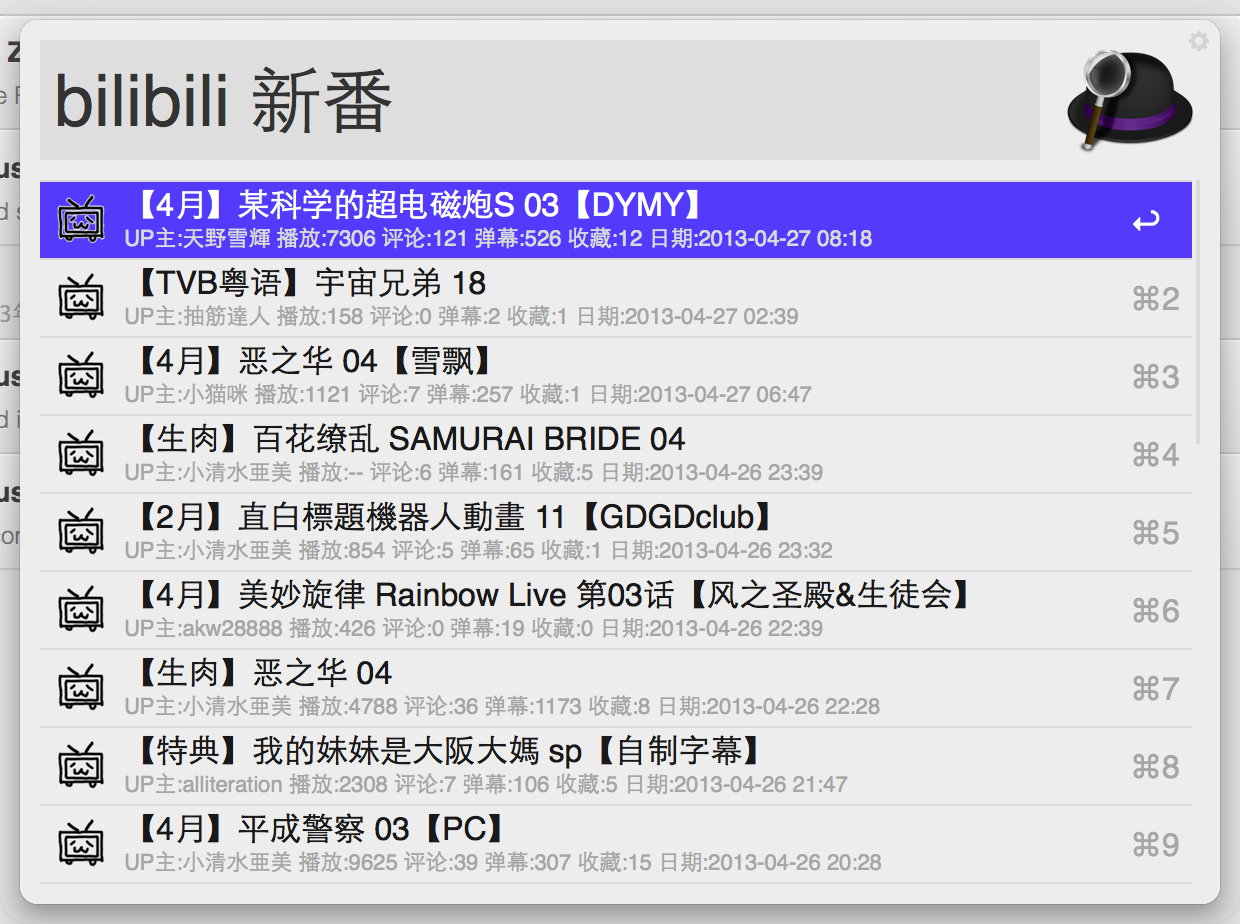
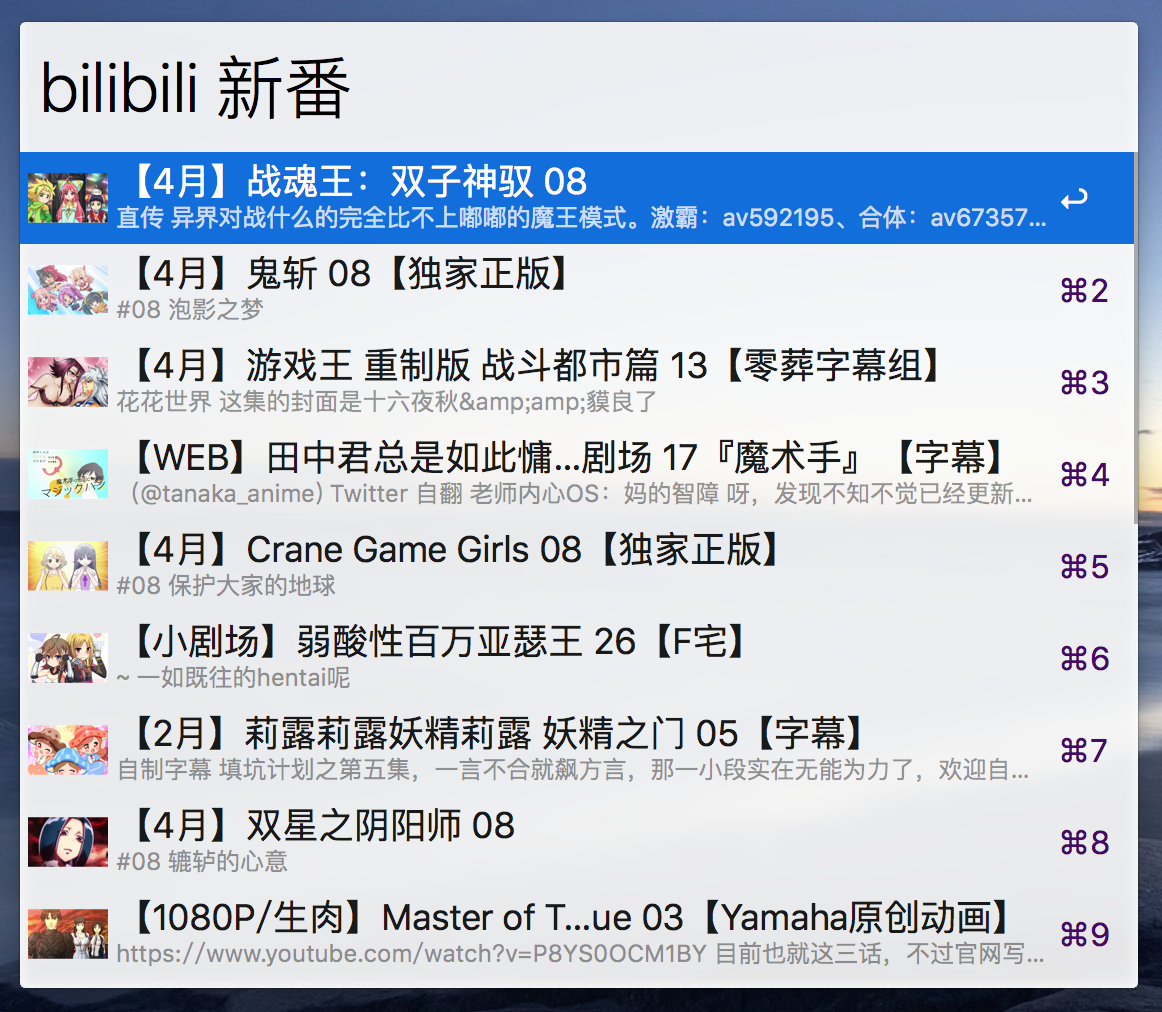
插件更新支持最新Bilibili
* 修改页面分析结构,修正链接
* 新增图片的解析裁剪
* README 更新

diff --git a/src/search.php b/src/search.php
@@ -1,6 +1,7 @@
 <?
 require_once('phpQuery.php');
 require_once('workflows.php');
+require_once('image.php');
 
 $channels = array(
     'MAD' => 'douga-mad-1.html',
@@ -32,36 +33,35 @@ $channels = array(
     '新番三次元' => 'bangumi-three-1.html'
 );
 
+$thumbnail_dir = '/tmp/alfred-workflow-bilibili';
+
 function search_channel($channel) {
     $wf = new Workflows();
-    $url = 'http://www.bilibili.tv/video/'.$channel;
+    $url = 'http://www.bilibili.com/video/'.$channel;
     $content = $wf->request($url, array(CURLOPT_ENCODING => 1));
     $doc = phpQuery::newDocumentHTML($content);
-    $list = $doc->find('li.l1');
+    $list = $doc->find('div.l-item');
+
+    initDir();
 
     $i = 0;
     foreach ($list as $item) {
         $item = pq($item);
-        $link = $item->children('a.title')->attr('href');
+        $link = $item->children('a:first')->attr('href');
         if (strpos($link, 'http') !== 0) {
-            $link = 'http://www.bilibili.tv'.$link;
+            $link = 'http://www.bilibili.com'.$link;
         }
-        $title = $item->children('a.title')->text();
-        $author = $item->find('a.up')->text();
-        $view = $item->find('a.gk > b')->text();
-        $comment = $item->find('a.pl > b')->text();
-        $bullet = $item->find('a.dm > b')->text();
-        $save = $item->find('a.sc > b')->text();
-        $date = preg_split('/UP:/', $item->find('div.date')->text());
-        $date = $date[1];
-        $subtitle = 'UP主:'.$author.' 播放:'.$view.' 评论:'.$comment.' 弹幕:'.$bullet.' 收藏:'.$save.' 日期:'.$date;
+        $title = $item->find('a.title')->attr('title');
+        $subtitle = $item->find('div.v-desc')->text();
+        $img = $item->find('a:first img')->attr("data-img");
 
         $wf->result(
             $i,
             $link,
-            $title,
-            $subtitle,
-            'icon.png',
+            trim($title),
+            trim($subtitle),
+            /*'icon.png',*/
+            saveAndReturnImg($img),
             'yes'        
         );
         $i++;
@@ -72,38 +72,58 @@ function search_channel($channel) {
 
 function search_query($kw) {
     $wf = new Workflows();
-    $url = 'http://www.bilibili.tv/search?keyword='.urlencode($kw).'&orderby=&formsubmit=';
+    $url = 'http://search.bilibili.com/all?keyword='.urlencode($kw);
     $content = $wf->request($url, array(CURLOPT_ENCODING => 1));
     $doc = phpQuery::newDocumentHTML($content);
-    $list = $doc->find('li.l');
+
+    initDir();
 
     $i = 0;
-    foreach ($list as $item) {
-        $link = pq($item)->children('a:first')->attr('href');
-        if (strpos($link, 'http') !== 0) {
-            $link = 'http://www.bilibili.tv'.$link;
-        }
-        $info = pq($item)->find('div.info > i');
-        $author = pq($item)->find('a.upper:first')->text();
-        $view = $info->eq(0)->text();
-        $comment = $info->eq(1)->text();
-        $bullet = $info->eq(2)->text();
-        $save = $info->eq(3)->text();
-        $date = $info->eq(4)->text();
-        $subtitle = 'UP主:'.$author.' 播放:'.$view.' 评论:'.$comment.' 弹幕:'.$bullet.' 收藏:'.$save.' 日期:'.$date;
+    $syntheticalList = $doc->find('li.synthetical');
+    foreach ($syntheticalList as $item) {
+        $item = pq($item);
+        $link = $item->find('a:first')->attr('href');
+        $img = $item->find('a:first img')->attr('src');
+
         $wf->result(
             $i,
             $link,
-            pq($item)->find('div.t:first')->text(),
+            trim($item->find('a.title')->attr('title')),
+            trim($item->find('div.des')->text()),
+            saveAndReturnImg($img),
+            'yes'
+        );
+        $i++;
+    }
+
+    $list = $doc->find('li.video');
+    foreach ($list as $item) {
+        $item = pq($item);
+        $link = $item->children('a:first')->attr('href');
+        if (strpos($link, 'http') !== 0) {
+            $link = 'http://www.bilibili.com'.$link;
+        }
+        $tags = $item->find('div.tags')->eq(0);
+        $view = pq($tags)->find('span')->eq(0)->text();
+        $bullet = pq($tags)->find('span')->eq(1)->text();
+        $date = pq($tags)->find('span')->eq(2)->text();
+        $author = pq($tags)->find('span')->eq(3)->text();
+        $img = $item->find('a:first img')->attr('src');
+
+        $subtitle = 'UP主:'.trim($author).'   观看:'.trim($view).'   弹幕:'.trim($bullet).'   上传时间:'.trim($date);
+        $wf->result(
+            $i,
+            $link,
+            trim($item->find('div.headline a.title')->attr('title')),
             $subtitle,
-            'icon.png',
+            saveAndReturnImg($img),
             'yes'        
         );
         $i++;
     }
 
     if (count($wf->results()) == 0) {
-        $wf->result('0', $url, '在bilibili.tv中搜索', $kw, 'icon.png', 'yes');
+        $wf->result('0', $url, '在bilibili.com中搜索', $kw, 'icon.png', 'yes');
     }
 
     return $wf->toxml();

diff --git a/src/image.php b/src/image.php
@@ -1,0 +1,55 @@
+<?
+
+function initDir() {
+    global $thumbnail_dir;
+    if (!file_exists($thumbnail_dir)) {
+        mkdir($thumbnail_dir, 0777, true);
+    }
+    
+    $files = glob($thumbnail_dir.'/*'); // get all file names
+    foreach($files as $file){ // iterate files
+        if(is_file($file))
+            unlink($file); // delete file
+    }
+}
+
+function saveAndReturnImg($imgUrl) {
+    global $thumbnail_dir;
+
+    $filenameIn = $imgUrl;
+    $baseName = round(microtime(true) * 1000);
+    $filenameOut = $thumbnail_dir.'/'.$baseName;
+
+    file_put_contents($filenameOut, file_get_contents($filenameIn));
+
+    crop($filenameOut);
+
+    return $filenameOut;
+}
+
+function crop($imgUrl) {
+    $ini_filename = $imgUrl;
+    $im = imagecreatefromjpeg($ini_filename);
+    imagealphablending($im, false);
+    imagesavealpha($im, true);
+
+    $ini_x_size = getimagesize($ini_filename)[0];
+    $ini_y_size = getimagesize($ini_filename)[1];
+
+    $crop_measure = max($ini_x_size, $ini_y_size);
+
+    $newImg = imagecreatetruecolor($crop_measure, $crop_measure);
+    imagealphablending($newImg, false);
+    imagesavealpha($newImg, true);
+    $transparent = imagecolorallocatealpha($newImg, 255, 255, 255, 127);
+    imagefilledrectangle($newImg, 0, 0, $crop_measure, $crop_measure, $transparent);
+    imagecopyresampled($newImg, $im,
+        ($crop_measure - $ini_x_size) / 2, ($crop_measure - $ini_y_size) / 2,
+        0, 0,
+        $ini_x_size, $ini_y_size,
+        $ini_x_size, $ini_y_size);
+
+    imagepng($newImg, $imgUrl);
+}
+
+?>

diff --git a/test/test.php b/test/test.php
@@ -1,5 +1,10 @@
 <?
-require_once('../src/search.php');
-echo search('新番');
-// http://bilibili.tv/video//
+//require_once('../src/search.php');
+//echo search('新番');
+//echo saveAndReturnImg('http://i2.hdslb.com/bfs/archive/9bf832484b1c02570484317304f74d78daaff858.jpg_320x200.jpg');
+//echo file_get_contents($_GET['http://i2.hdslb.com/bfs/archive/9bf832484b1c02570484317304f74d78daaff858.jpg_320x200.jpg']);
+
+require_once('../src/image.php');
+crop('/tmp/alfred-workflow-bilibili/1464233633748');
+
 ?>

diff --git a/README.md b/README.md
@@ -1,28 +1,31 @@
-Alfred Workflow for bilibili.tv
+
+Alfred Workflow for bilibili.com
 ========================
 
-本作是一个[Alfred2](http://www.alfredapp.com/)的工作流，用于搜索[bilibili.tv](http://bilibili.tv)上的视频内容。
+本作是一个 [Alfred2](http://www.alfredapp.com/) 的工作流，用于搜索 [bilibili.com](http://bilibili.com) 上的视频内容。(也可用于 Alfred 3)
 
 ## 安装方法：
 
-    sh build.sh
-    open bilibili.alfredworkflow
+```shell
+bash build.sh
+open bilibili.alfredworkflow
+```
 
 ## 使用方法：
 
-打开Alfred2后，输入关键字 **bilibili** 即可开始搜索，搜索分为2种模式。
+打开 Alfred 后，输入关键字 **bilibili** 即可开始搜索，搜索分为2种模式。
 
 ### 关键词查询
 
-输入 **bilibili 关键词** 即调用bilibili.tv的查询接口，出于国内网络速度和B站服务器带宽的考虑，一次搜索只返回10个视频，默认以 **综合** 进行排序。
+输入 **bilibili 关键词** 即调用bilibili.com的查询接口，出于国内网络速度和B站服务器带宽的考虑，所以搜索可能较慢（还有因为解析裁减了图片），默认以 **综合** 进行排序。（后期不定时可能会改进，看心情）
 
-与B站的搜索一样，你可以输入 **bilibili EVA@动画** 来指定在某个频道下搜索。
+与B站的搜索一样，你可以输入 **bilibili 冰果@动画** 来指定在某个频道下搜索。
 
 ![关键词查询](screen-capture/search-keywords.png)
 
 ### 频道查询
 
-工作流内置了多个频道关键词，当畭 **bilibili 频道关键词** 时，会抓取该频道下的第一页的内容，如输入 **bilibili 新番** 会抓取[二次元新番](http://www.bilibili.tv/video/bangumi-two-1.html)下的视频，在B站不调整的前提下，一页有24个视频，按审核通过时间倒序排列。
+工作流内置了多个频道关键词，当畭 **bilibili 频道关键词** 时，会抓取该频道下的第一页的内容，如输入 **bilibili 新番** 会抓取[二次元新番](http://www.bilibili.com/video/bangumi-two-1.html)下的视频，在B站不调整的前提下，一页有24个视频，按审核通过时间倒序排列。
 
 频道关键词列表如下：
 
@@ -55,3 +58,9 @@ Alfred Workflow for bilibili.tv
 - 新番三次元: 新番 - 新番三次元
 
 ![频道查询](screen-capture/search-channel.png)
+
+## 备注：
+
+目前所有频道并未全部测试。
+
+因为后续 B 站可能会更改页面结构，所以并不能保证本 Workflow 一直可用。
